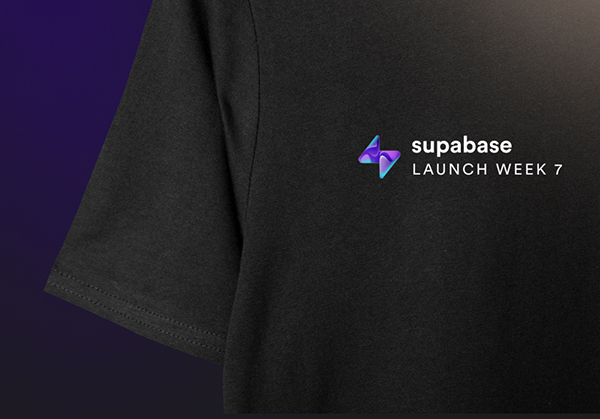
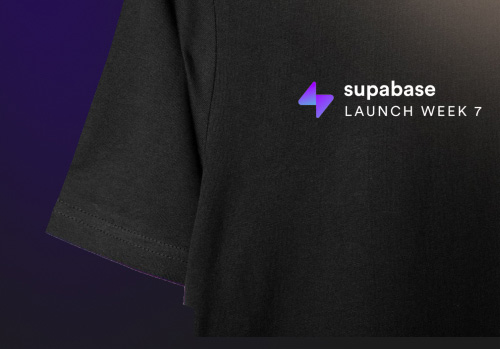
LW7: updated copy and images

diff --git a/apps/www/components/LaunchWeek/LaunchSection/LaunchWeekPrizeSection.tsx b/apps/www/components/LaunchWeek/LaunchSection/LaunchWeekPrizeSection.tsx
@@ -74,7 +74,7 @@ export default function LaunchWeekPrizeSection({ className }: { className?: stri
                       width={16}
                       height={16}
                     />
-                    Mechanical Keyboard <LabelBadge text="3 pieces" />
+                    Mechanical Keyboard <LabelBadge text="3 keyboards" />
                   </h4>
                   <p className="text-[#707070] mt-1">
                     Increase your chances of winning limited edition 62-Key ISO Custom Mechanical
@@ -88,20 +88,21 @@ export default function LaunchWeekPrizeSection({ className }: { className?: stri
               <div className="grid grid-cols-1 md:grid-cols-2 gap-4">
                 <LaunchWeekPrizeCard
                   imageUrl="/images/launchweek/seven/tshirt.jpg"
-                  imageWrapperClassName="h-[40vw] md:h-[30vw] lg:max-h-[175px] lg:h-auto"
+                  imageWrapperClassName="h-[40vw] md:h-[30vw] lg:h-auto"
+                  imgObjectPosition="right"
                   content={
                     <h3 className="text-sm flex items-center gap-4">
-                      Supa T-shirt <LabelBadge text="10 shirts" />
+                      Supabase T-shirt <LabelBadge text="25 shirts" />
                     </h3>
                   }
                   animateFrom="up"
                 />
                 <LaunchWeekPrizeCard
                   imageUrl="/images/launchweek/seven/socks.jpg"
-                  imageWrapperClassName="h-[40vw] md:h-[30vw] lg:max-h-[175px] lg:h-auto"
+                  imageWrapperClassName="h-[40vw] md:h-[30vw] lg:h-auto"
                   content={
                     <h3 className="text-sm flex items-center gap-4">
-                      Supa Socks <LabelBadge text="5 pairs" />
+                      Supabase Socks <LabelBadge text="15 pairs" />
                     </h3>
                   }
                   animateFrom="right"
@@ -109,11 +110,11 @@ export default function LaunchWeekPrizeSection({ className }: { className?: stri
               </div>
               <LaunchWeekPrizeCard
                 imageUrl="/images/launchweek/seven/stickers.jpg"
-                imageWrapperClassName="h-[40vw] lg:max-h-[175px] lg:h-auto"
+                imageWrapperClassName="h-[40vw] lg:h-auto"
                 animateFrom="down"
                 content={
                   <h3 className="text-sm flex items-center gap-4">
-                    Launch Week 7 Limited Edition Sticker Pack <LabelBadge text="20 packs" />
+                    Launch Week 7 Limited Edition Sticker Pack <LabelBadge text="25 packs" />
                   </h3>
                 }
               />

diff --git a/apps/www/components/LaunchWeek/LaunchSection/LaunchWeekPrizeCard.tsx b/apps/www/components/LaunchWeek/LaunchSection/LaunchWeekPrizeCard.tsx
@@ -5,17 +5,19 @@ import { motion } from 'framer-motion'
 type animateFromType = 'left' | 'right' | 'up' | 'down' | 'opacityOnly'
 
 export default function LaunchWeekPrizeCard({
-  imageUrl,
+  imageUrl = '',
   imageWrapperClassName,
   content,
   className,
   animateFrom,
+  imgObjectPosition = 'center',
 }: {
   imageUrl: string
   imageWrapperClassName?: string
   content: any
   className?: string
   animateFrom?: animateFromType
+  imgObjectPosition?: string
 }) {
   const finalState = { x: 0, y: 0, opacity: 1 }
 
@@ -52,7 +54,12 @@ export default function LaunchWeekPrizeCard({
             imageWrapperClassName && imageWrapperClassName,
           ].join(' ')}
         >
-          <Image src={imageUrl ?? ''} layout="fill" objectFit="cover" />
+          <Image
+            src={imageUrl}
+            layout="fill"
+            objectFit="cover"
+            objectPosition={imgObjectPosition}
+          />
         </div>
         <div className="p-4">{content && content}</div>
       </div>

diff --git a/apps/www/components/LaunchWeek/Ticket/ActualTicket.tsx b/apps/www/components/LaunchWeek/Ticket/ActualTicket.tsx
@@ -132,7 +132,7 @@ export default function Ticket({
                 {golden ? (
                   <>
                     <p>
-                      You got a Golden ticket. This means you’re in, and you also won a Supabase
+                      You got a Golden ticket. This means you're in, and you also won a Supabase
                       sticker pack!
                     </p>
                   </>
@@ -147,7 +147,7 @@ export default function Ticket({
                       </>
                     ) : (
                       <p>
-                        We have some fantastic swag up for grabs, including 3x limited edition
+                        We have some fantastic swag up for grabs, including 3 limited edition
                         mechanical keyboard that you won't want to miss.
                       </p>
                     )}
